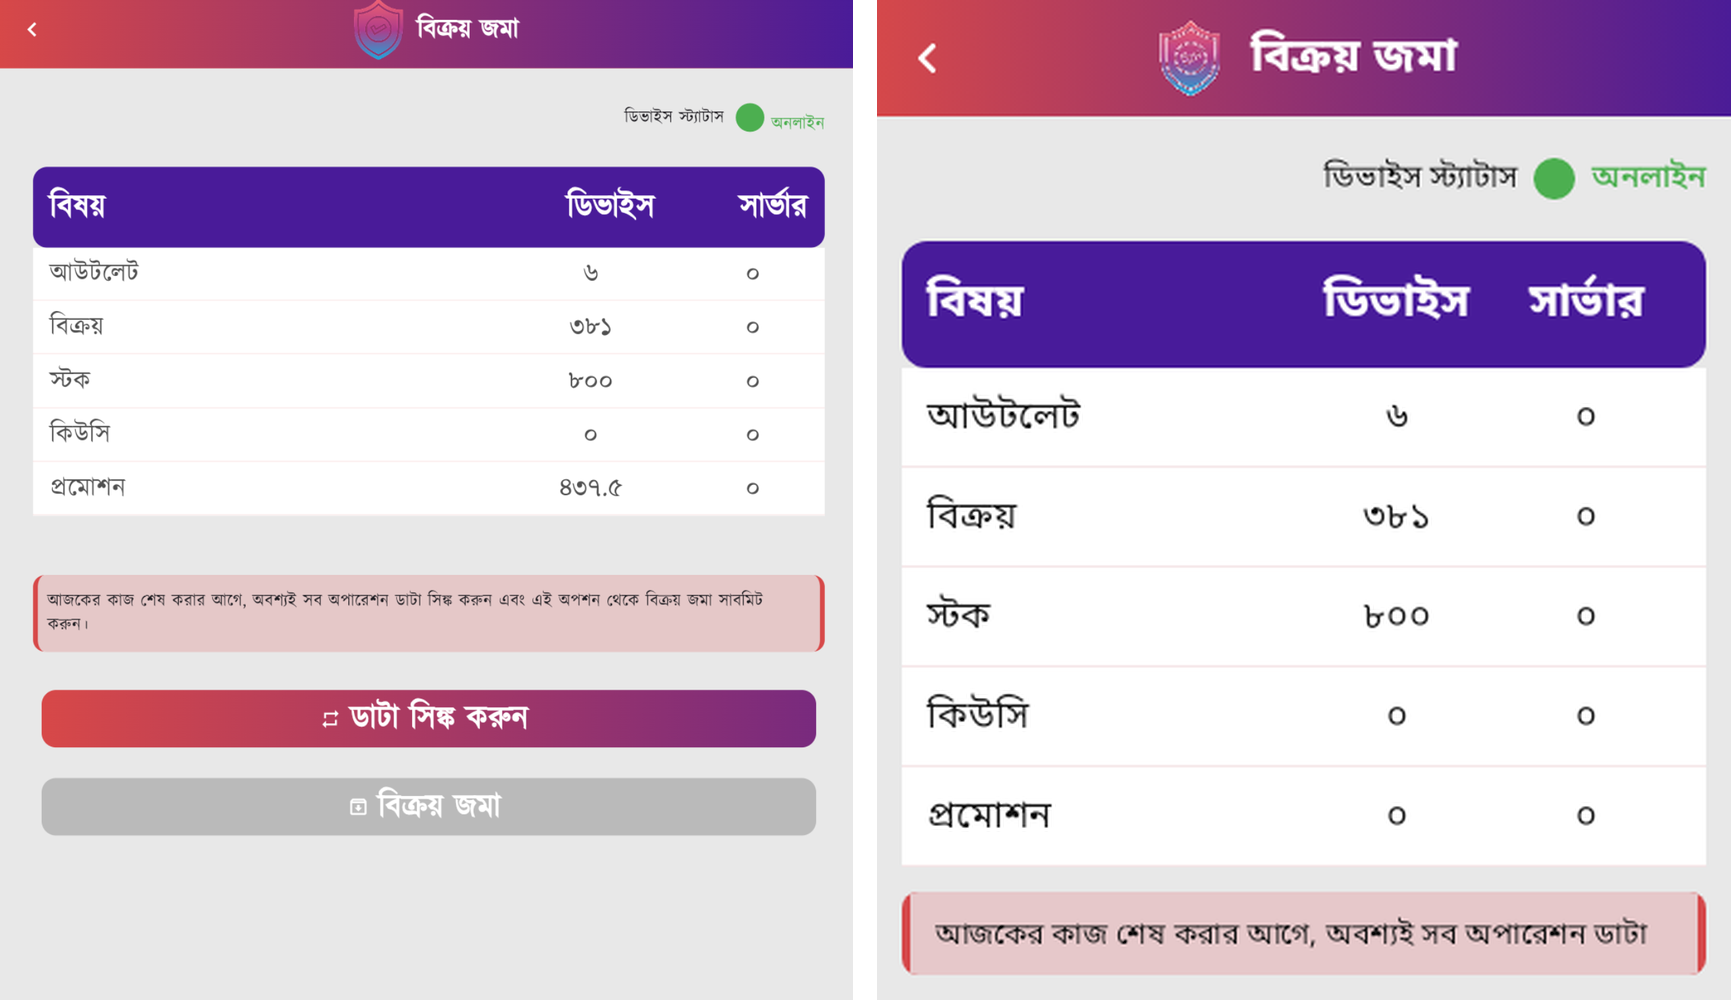
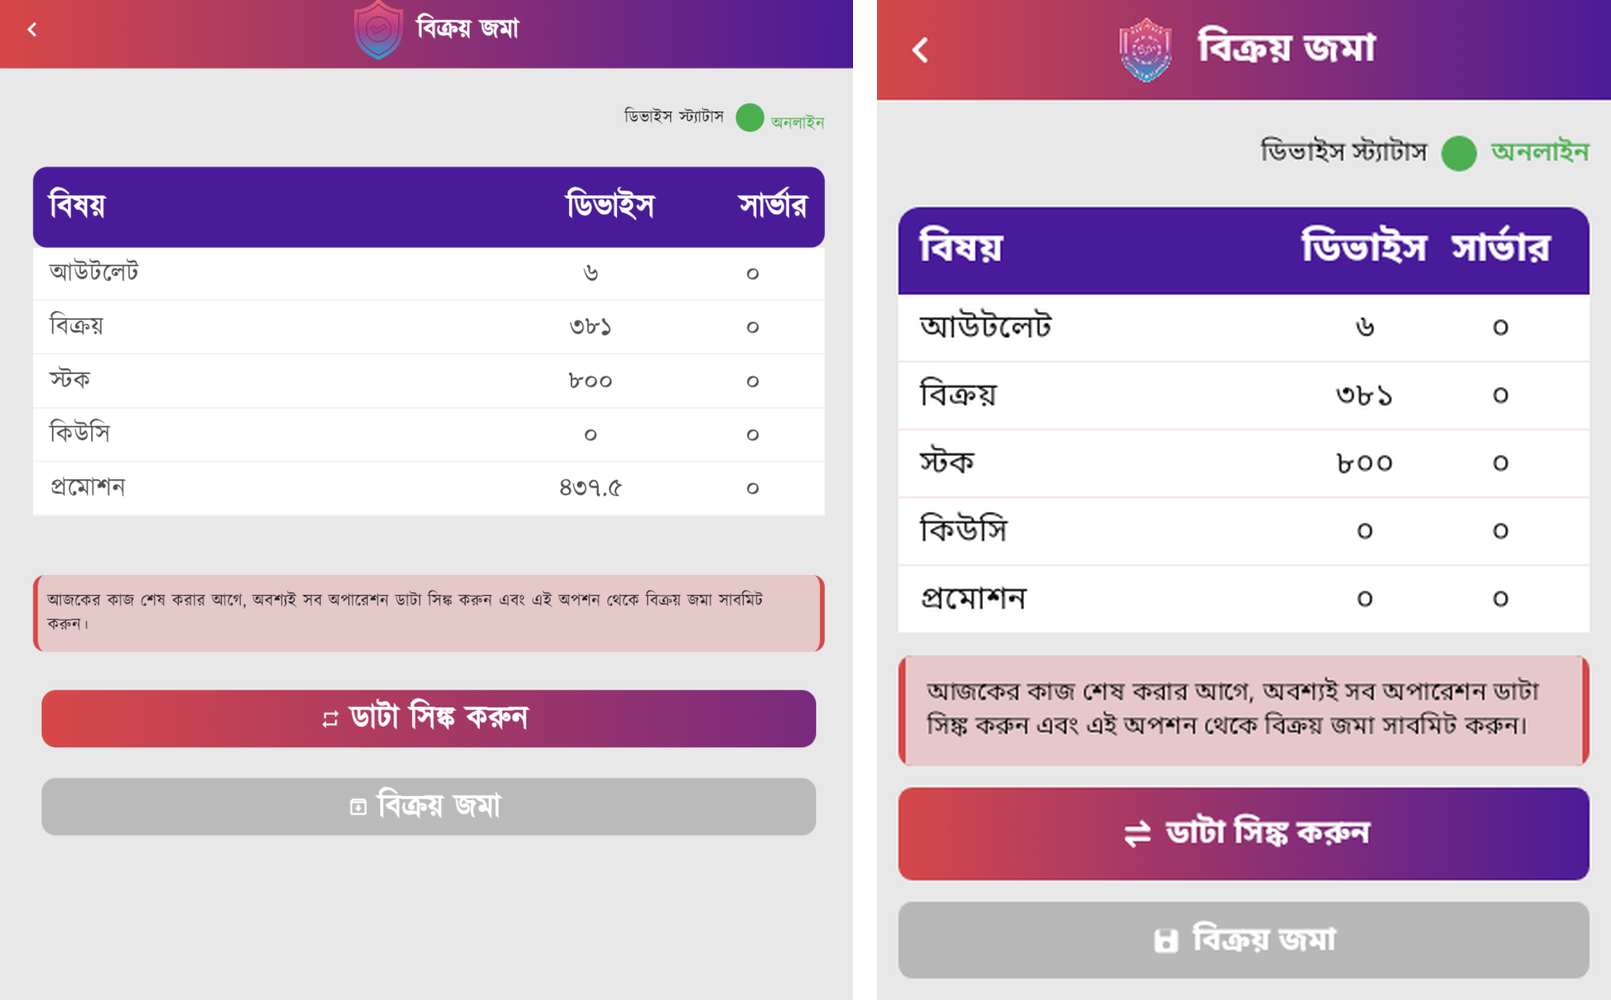
ui-kit: AronDataTable as on sr/sales-submit.png (top-rounded header, tighter rows, reference column weights)
Header rounded at the top only, padding 10 dp (header) and 7 dp (rows); default weights first 2.75, rest 1, which
puts the column centres at 70 % and 91 % as on the reference. The submit mock-up is taller so its buttons show.

Claude-Session: https://claude.ai/code/session_012DWzsWtYJkEcYzFUUfg1sn

diff --git a/android/core-ui/src/main/kotlin/com/aktcl/aron/core/ui/aron/Tables.kt b/android/core-ui/src/main/kotlin/com/aktcl/aron/core/ui/aron/Tables.kt
@@ -295,23 +295,24 @@ fun SummaryTable(
 }
 
 /**
- * A plain data table (sr/sales-submit.png): a solid purple header with rounded corners ([headers], white bold 22 sp), then white rows
- * with a thin rule, 18 sp. The first column is start-aligned, the others centred; [weights] (one per column, default first 2, rest 1)
- * set the column widths. Not lazy: for short tables such as the five submit rows.
+ * A plain data table (sr/sales-submit.png): a solid purple header rounded at the top ([headers], white bold 22 sp), then white rows
+ * with a thin rule, 18 sp. The first column is start-aligned, the others centred; [weights] (one per column, default first 2.75, rest
+ * 1: the reference's column centres at 70 % and 91 %) set the column widths. Not lazy: for short tables such as the five submit rows.
  */
 @Composable
 fun AronDataTable(headers: List<String>, rows: List<List<String>>, modifier: Modifier = Modifier, weights: List<Float>? = null) {
     val look = LocalAronLook.current
-    val w = weights ?: List(headers.size) { if (it == 0) 2f else 1f }
+    val w = weights ?: List(headers.size) { if (it == 0) 2.75f else 1f }
     val align = { i: Int -> if (i == 0) TextAlign.Start else TextAlign.Center }
     Column(modifier.fillMaxWidth()) {
-        Row(Modifier.fillMaxWidth().clip(RoundedCornerShape(AronLook.CardRadius)).background(look.panel).padding(horizontal = 12.dp, vertical = 16.dp)) {
+        val top = RoundedCornerShape(topStart = AronLook.CardRadius, topEnd = AronLook.CardRadius)
+        Row(Modifier.fillMaxWidth().clip(top).background(look.panel).padding(horizontal = 12.dp, vertical = 10.dp)) {
             headers.forEachIndexed { i, h -> Text(h, style = lookStyle(22.sp, bold = true, color = look.onPanel, align = align(i)), modifier = Modifier.weight(w[i])) }
         }
         rows.forEach { row ->
             Row(
                 Modifier.fillMaxWidth().background(look.card).drawBehind { drawRect(look.rowRule, Offset(0f, size.height - 1.dp.toPx()), Size(size.width, 1.dp.toPx())) }
-                    .padding(horizontal = 12.dp, vertical = 12.dp),
+                    .padding(horizontal = 12.dp, vertical = 7.dp),
             ) {
                 row.forEachIndexed { i, cell -> Text(cell, style = lookStyle(18.sp, color = look.ink, align = align(i)), modifier = Modifier.weight(w[i])) }
             }

diff --git a/android/ui-screenshots/src/test/kotlin/com/aktcl/aron/uiscreenshots/KitParityShot.kt b/android/ui-screenshots/src/test/kotlin/com/aktcl/aron/uiscreenshots/KitParityShot.kt
@@ -154,7 +154,7 @@ class KitParityShot {
         }
     }
 
-    @Test @Config(qualifiers = "bn-w411dp-h481dp") fun sales_submit() = shot("sales_submit") {
+    @Test @Config(qualifiers = "bn-w411dp-h560dp") fun sales_submit() = shot("sales_submit") {
         Column(Modifier.fillMaxSize().background(LocalAronLook.current.page)) {
             AronTopBar("বিক্রয় জমা", icon = painterResource(R.drawable.aron_art_sales_submit), onBack = {}, backLabel = "পেছনে")
             Column(Modifier.padding(12.dp), verticalArrangement = Arrangement.spacedBy(12.dp)) {

diff --git a/docs/status/ui-parity-ui-kit.md b/docs/status/ui-parity-ui-kit.md
@@ -5,7 +5,7 @@
 - **Container:** the SDK is not baked in; install it with `sdkmanager --sdk_root=/opt/android-sdk "platforms;android-37.0" "build-tools;37.0.0" "platform-tools"` (cmdline-tools zip from dl.google.com), `local.properties` sdk.dir=/opt/android-sdk.
 - **Evidence:** `python3 tools/ui-kit/parity_evidence.py [stock ...]` rebuilds docs/evidence/ui-parity/kit-*.png from the KitParityShot captures (reference left, kit right, 1000 px high).
 - **Scale note (fidelity):** measured on sr/stock.webp scaled to 411 units, the reference's elements are about 0.6 to 0.75 of the PARITY-SPEC dp values (minus 21 units vs 36 dp, top bar 36 vs 56): the reference phone runs a smaller display size. The kit keeps the spec's dp sizes (48 dp targets, legible Bangla on 360 dp phones) and matches proportions, weights and layout within them.
-- **Fidelity log:** PackCard: SKU code medium weight (reference stroke/cap 0.12 = Medium, was Bold), quantity and stock figures bold, quantity field grows from 48 dp (360 dp phones, unchanged) to 96 dp at 411 dp so the underline fills minus-to-plus as on the reference; PackListHeader follows. TotalsPanel rows tighter (line height 1.25 x size); button Save/Print glyphs 13/15 dp (0.6 of the label as on stock.webp). Tiles: radius 6 dp (measured about 5 units on home-1-tiles and outlet-menu, the 12 dp was too round); menu tiles (outlet-menu.png): picture 78 % of the tile width (max 96 dp), new optional `AronTileGrid(gap = AronMenuGap)` = 16 dp (17 units on the reference). AronHomeHeader: title and subtitle medium (not bold), avatar 44 dp, gear 30 dp, padding 12/22 dp (the avatar sits above the middle as on the reference). AronPrinterBadge inside AronInfoCard is flat grey with a 20 dp printer (summary.png; automatic, no screen change); AronInfoCard "i" 20 dp; SummaryTable header row 7 dp padding (about 25 units on the reference).
+- **Fidelity log:** PackCard: SKU code medium weight (reference stroke/cap 0.12 = Medium, was Bold), quantity and stock figures bold, quantity field grows from 48 dp (360 dp phones, unchanged) to 96 dp at 411 dp so the underline fills minus-to-plus as on the reference; PackListHeader follows. TotalsPanel rows tighter (line height 1.25 x size); button Save/Print glyphs 13/15 dp (0.6 of the label as on stock.webp). Tiles: radius 6 dp (measured about 5 units on home-1-tiles and outlet-menu, the 12 dp was too round); menu tiles (outlet-menu.png): picture 78 % of the tile width (max 96 dp), new optional `AronTileGrid(gap = AronMenuGap)` = 16 dp (17 units on the reference). AronHomeHeader: title and subtitle medium (not bold), avatar 44 dp, gear 30 dp, padding 12/22 dp (the avatar sits above the middle as on the reference). AronPrinterBadge inside AronInfoCard is flat grey with a 20 dp printer (summary.png; automatic, no screen change); AronInfoCard "i" 20 dp; SummaryTable header row 7 dp padding (about 25 units on the reference). AronDataTable (sales-submit.png): header rounded at the top only, 10 dp header / 7 dp row padding, default first-column weight 2.75 (column centres at 70 % and 91 % as on the reference).
 - **Left as is (scale, not a defect):** LetterFilterBar fits 12 letters a row on sale-select.png (29-unit pitch); 48 dp targets allow 7 to 8. Retailer field, title bar height and table header text are likewise smaller on the reference by the same 0.6 to 0.75 factor.
 - **Told the screens:** ui-sr-b: use `gap = AronMenuGap` and `Modifier.padding(AronMenuGap)` on Outlet-type menus. ui-sr-a: on sr/stock.webp the Print button is grey with a DARK label while the printer is off (AronSecondaryButton enabled = true, tap to connect), and the Home subtitle date shows Latin digits.
 
@@ -40,7 +40,7 @@ What still differs (kit level): packshots show the grey silhouette until ui-pack
 | Original art crops `aron_art_*` (16) | home-1-tiles.webp, outlet-menu.png | DONE: the owner's own icons (lead ruling), 3 to 12 KB each, 125 KB total WebP | art push |
 | AronTopBar hanging printer badge, 22 sp title; tile labels medium weight | stock.webp, home-1-tiles.webp | DONE | art push |
 | AronInfoCard, AronTargetCard | summary.png, home-1-tiles.webp | DONE (target bar hidden while targets are deferred) | art push |
-| AronStatusDot, AronNoticeCard, AronDataTable, Sync/Submit glyphs, grey disabled primary | sales-submit.png | DONE | submit push |
+| AronStatusDot, AronNoticeCard, AronDataTable, Sync/Submit glyphs, grey disabled primary | sales-submit.png | DONE; table header top-rounded, tighter rows, reference column weights (session 2) | submit push |
 | AMO icons (14, requested by ui-amo): joint_call, control_call, team, team_location, team_performance, live_dashboard, sr_stock, exceptions, report, price_compliance, assessment, survey, verify, update_base | no screenshot (noref) | DONE in the set's style; needs owner screenshots | amo icons push |
 | SummaryTable weights + shrink-to-fit cells | summary.png | DONE (six columns at 360 dp, nothing breaks inside a word) | 8591ffb |
 | AronCard, AronListRow, AronField, AronTabs, AronDialog, AronSwitchRow, AronLogoutButton | no screenshot (manual layouts; AMO/TSO) | DONE in the reference language (white cards, gradient selection, purple ink) | forms push |

diff --git a/docs/status/android-core-ui.md b/docs/status/android-core-ui.md
@@ -37,7 +37,7 @@ LetterFilterBar(letters = listOf(all, "A", "B", ...), selected, onSelect, letter
 AronInfoCard(text, trailing = { AronPrinterBadge(...) })            // summary.png info card
 AronStatusDot(label, state, online)                                 // sales-submit.png device status
 AronNoticeCard(text)                                                // sales-submit.png pink notice
-AronDataTable(headers, rows: List<List<String>>, weights = null)     // purple rounded header + ruled rows (submit table)
+AronDataTable(headers, rows: List<List<String>>, weights = null /* first 2.75, rest 1 */)     // purple top-rounded header + ruled rows (submit table)
 AronCard(modifier, onClick = null) { ... }                           // white 12 dp card, soft shadow, 16 dp padding
 AronListRow(title, subtitle = null, trailing = null, leading: Painter? = null, onClick = null)
 AronField(value, onValueChange, label, placeholder = null, errorText = null, keyboardType = Text, singleLine = true, password = false, enabled = true)
